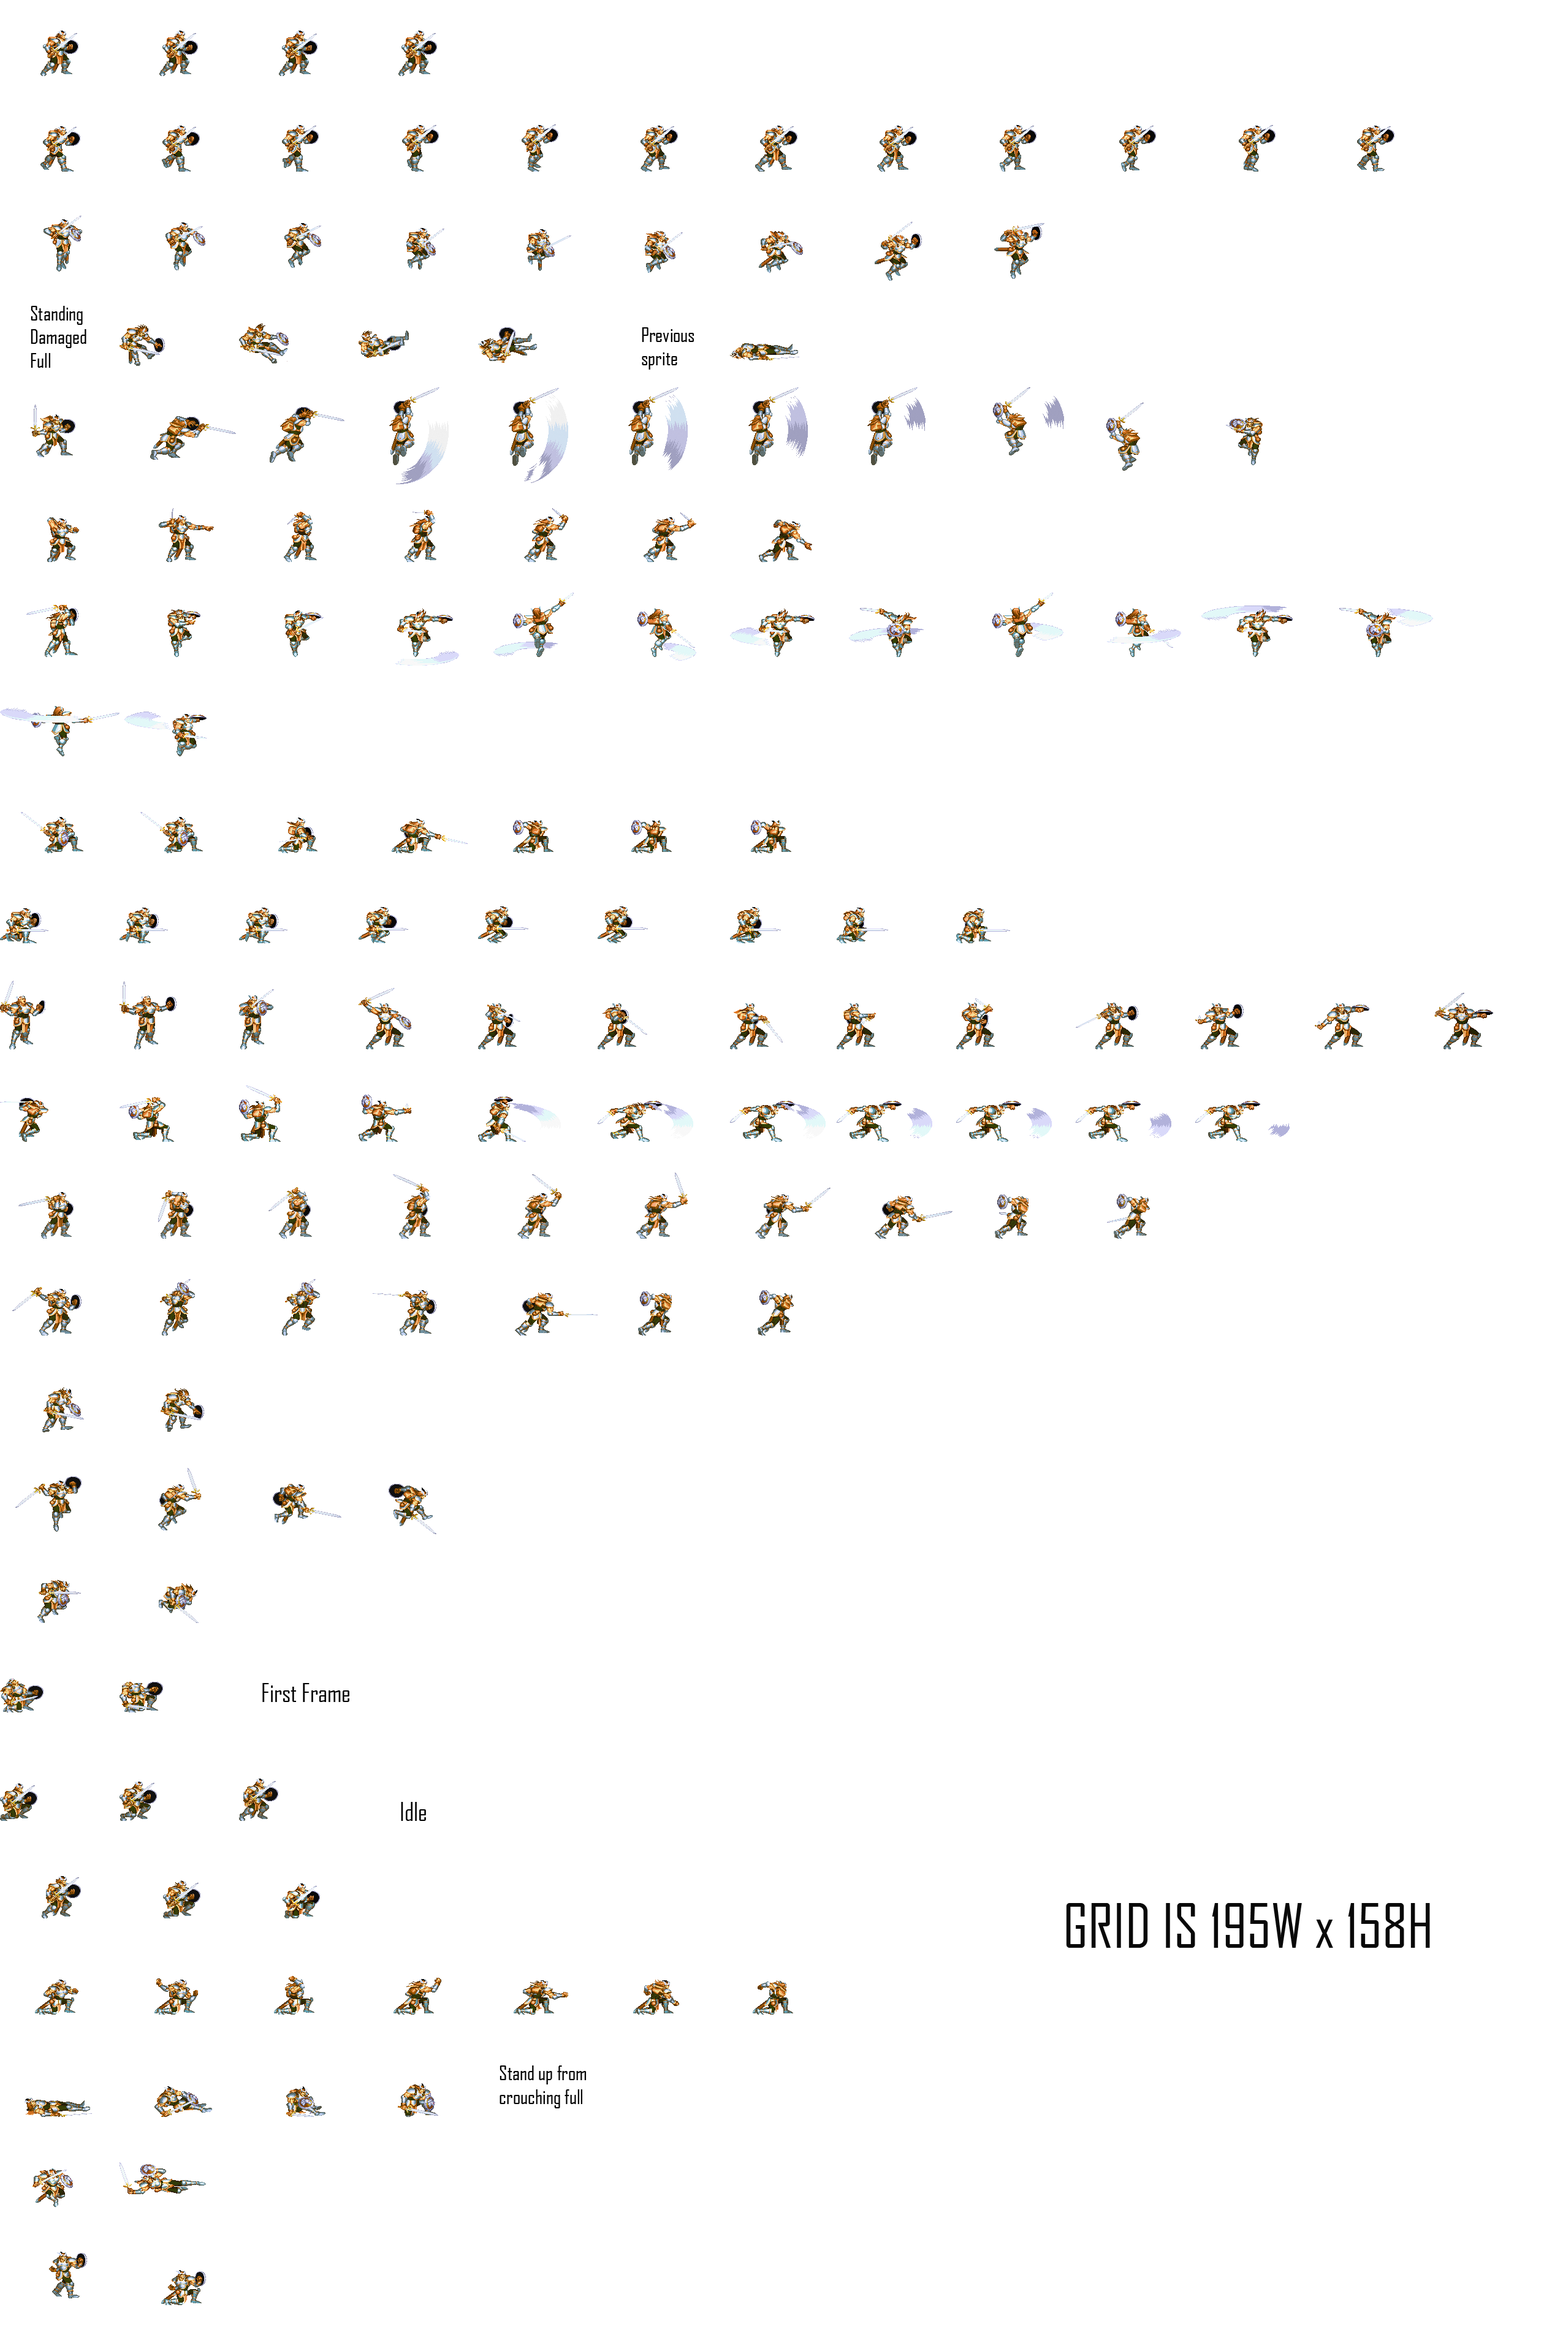
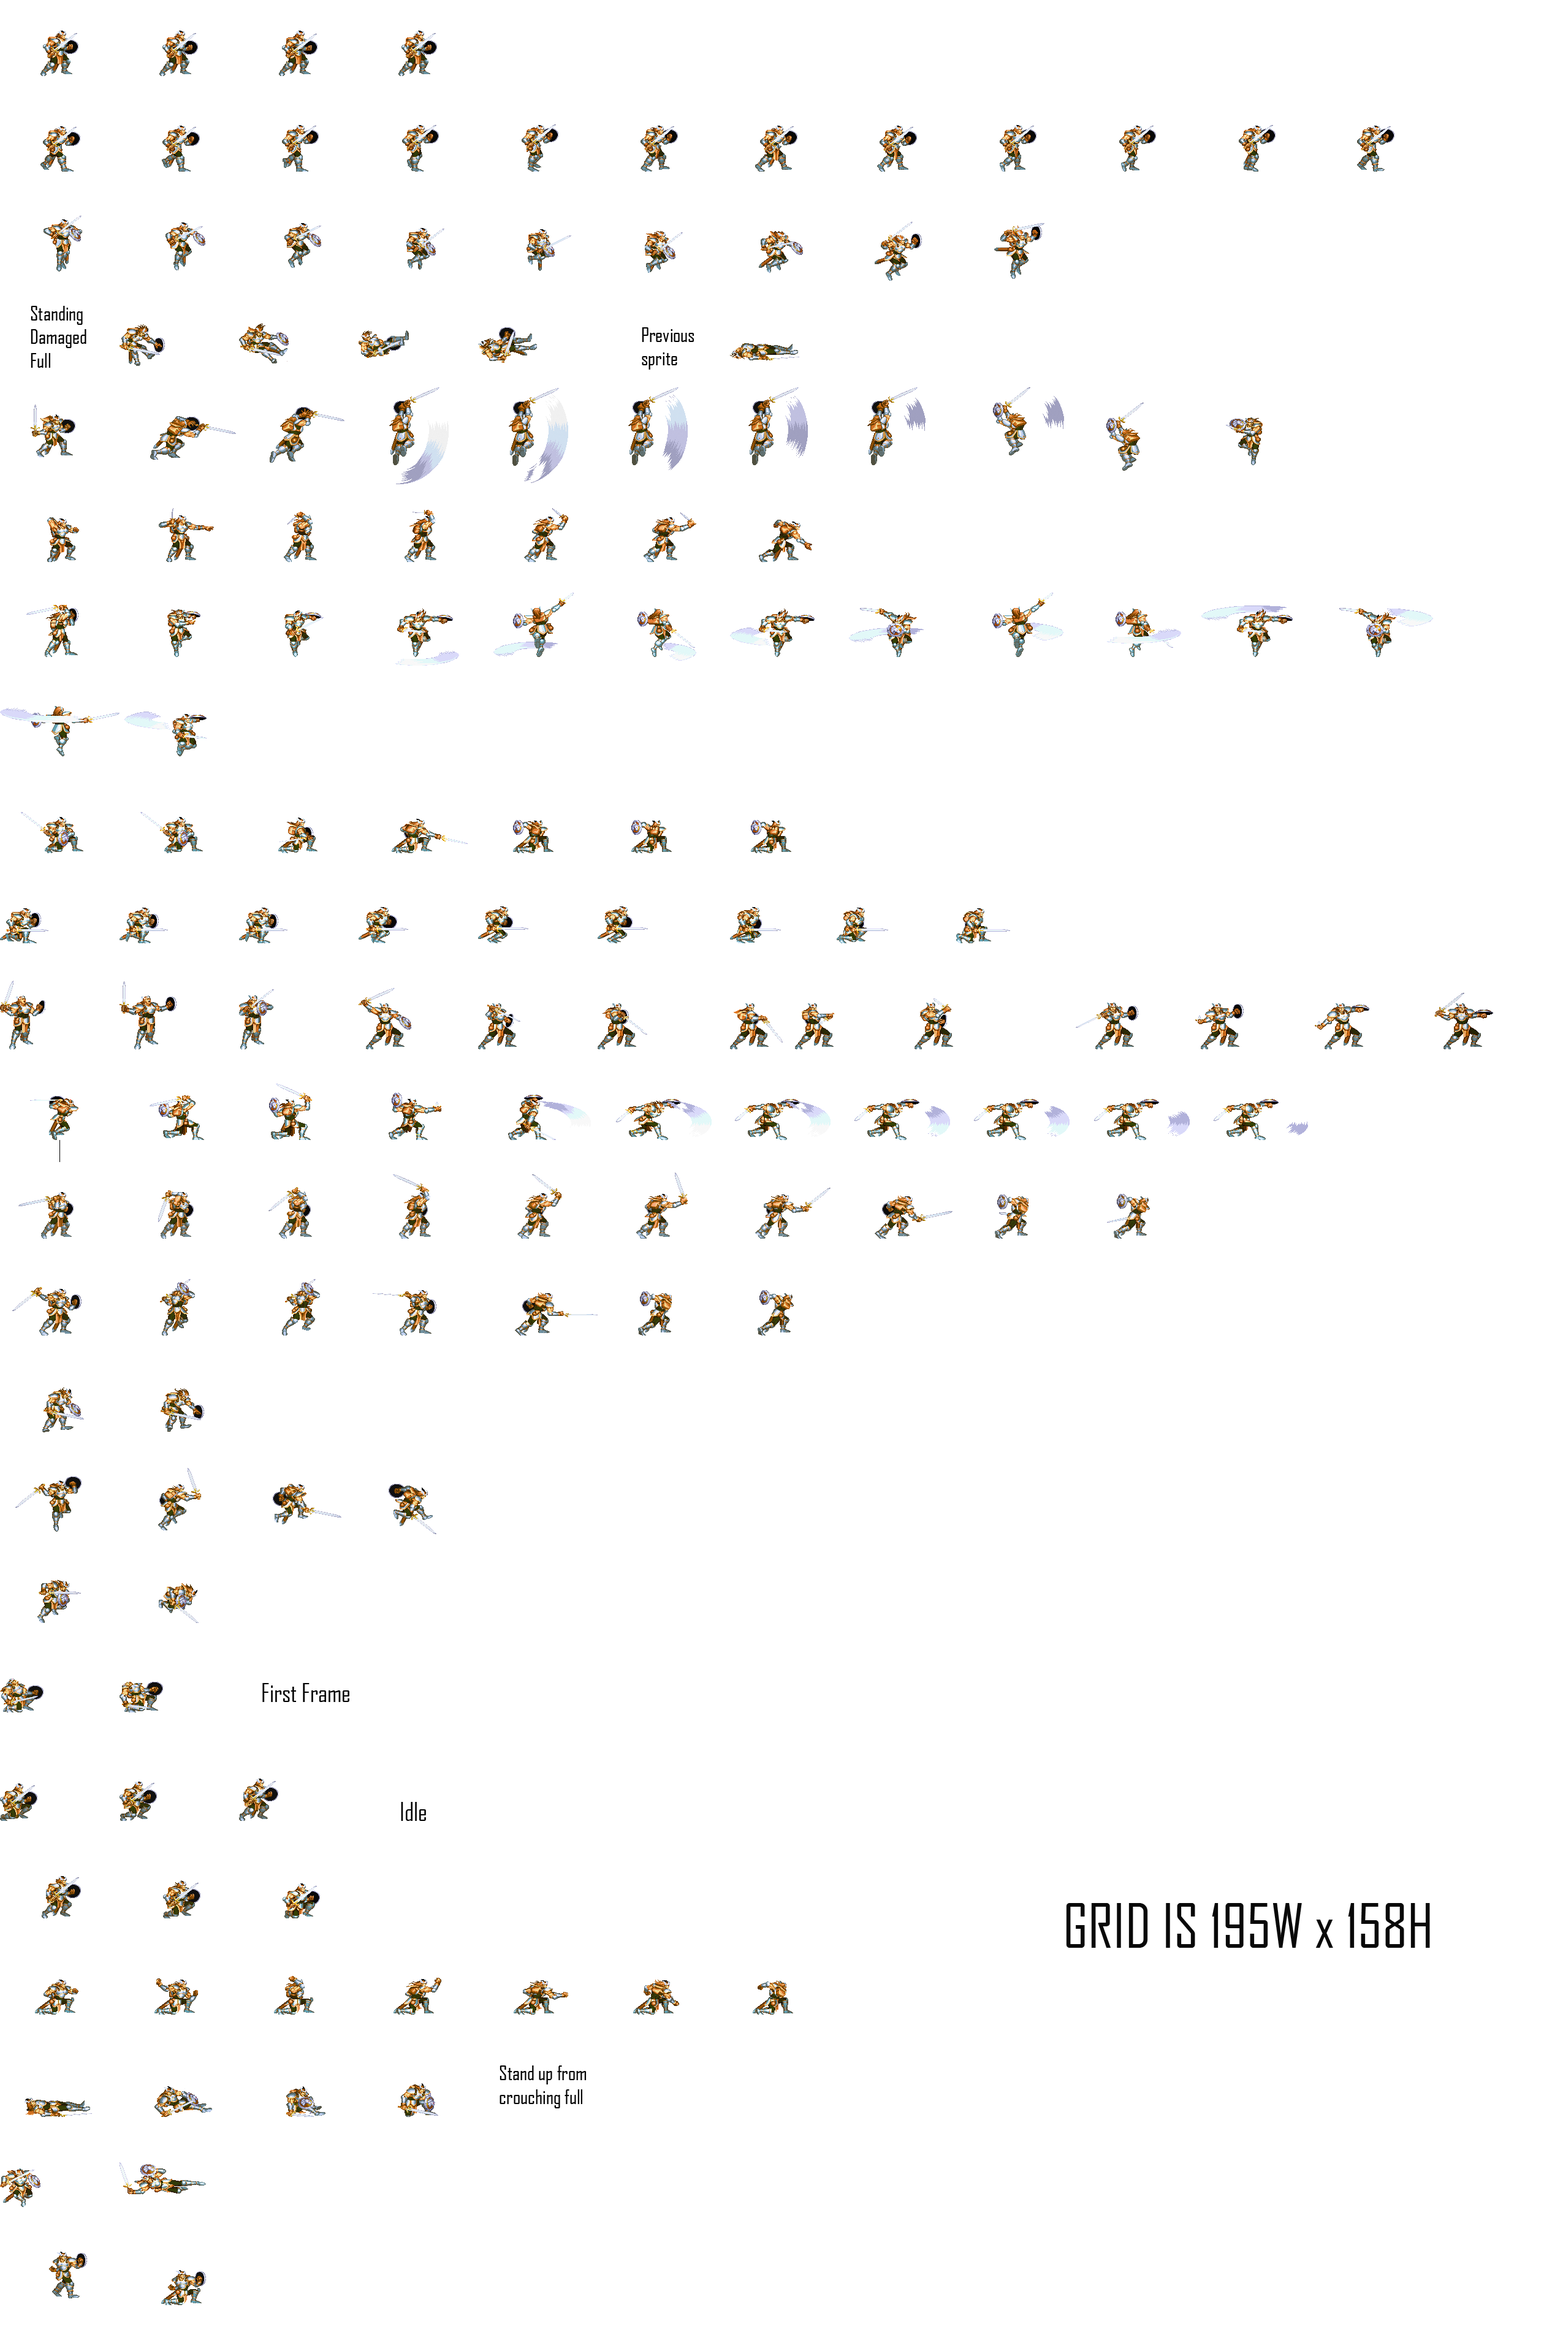
Updated spritesheet and changed cr_s1

diff --git a/src/Warrior.cpp b/src/Warrior.cpp
@@ -373,8 +373,8 @@ Warrior::Warrior(int x_pos, bool _fliped, int lane) : Character() {
 	st_s2.recovery = 500;
 	st_s2.type = ST_S2;
 
-	cr_s1.pos_rel_char = { 100,50 };
-	cr_s1.hitbox = { 0,0,100,150 };
+	cr_s1.pos_rel_char = { 200,50 };
+	cr_s1.hitbox = { 0,0,150,150 };
 	cr_s1.active_time = -1;
 	cr_s1.hitstun = -1;
 	cr_s1.blockstun = 300;
